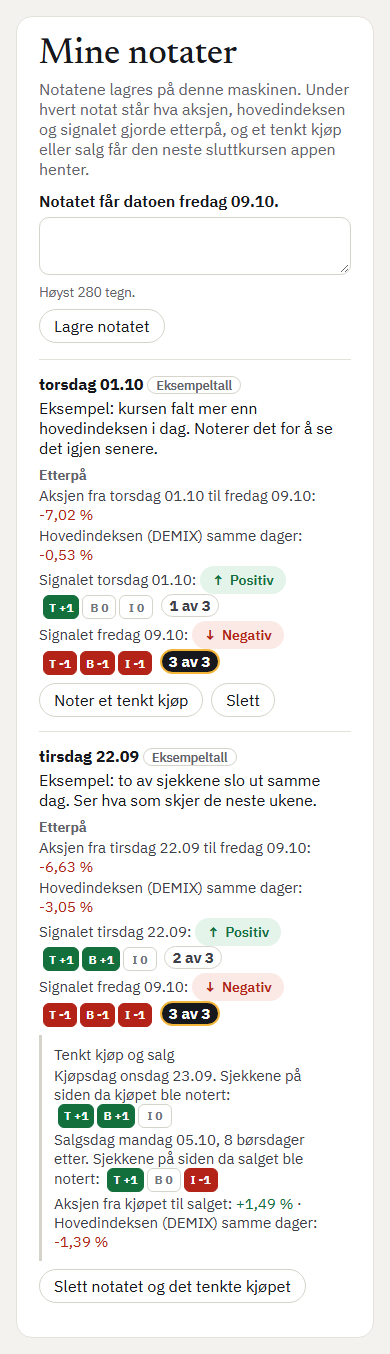
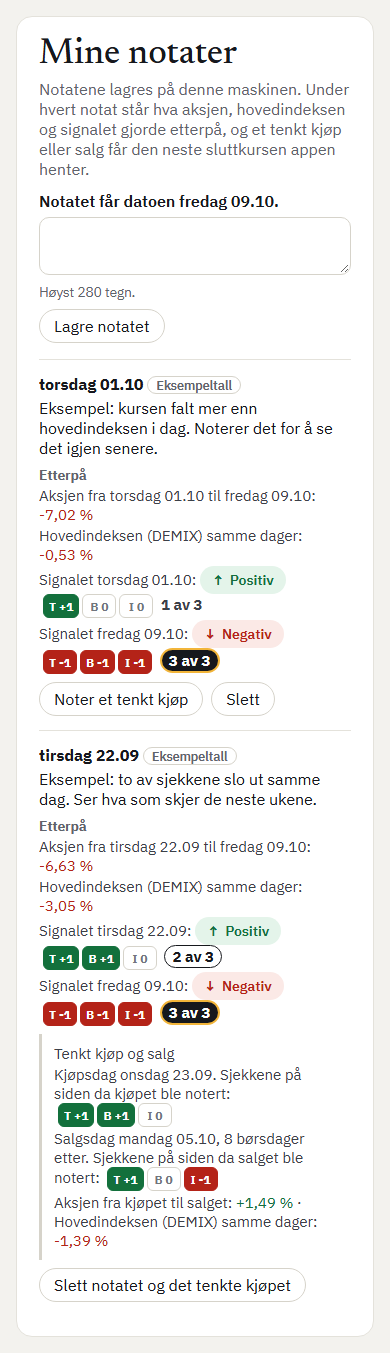
Bildene med notatene og avtrykkene etter tillegg 2 til 8.29

diff --git a/tests/test_docker.py b/tests/test_docker.py
@@ -1355,7 +1355,9 @@ HOEYDE_PAA_BILDET = 1864
 # Story 8.29: _egne.html, eodhd_demo.html og stil.css, med flettingen av main (8.27 og 10.11) 13.11.
 # Avtrykkene er regnet ut paa nytt, og bildene er tatt paa nytt: min-liste-demo.png og notatene-brfe-demo.png
 # (investorknappen står over «Mine notater») er nye, de andre byte for byte de samme.
[1 lines of base64/hex data omitted]
+# Tillegg 2 til 8.29 (styrken for én dag som tabellen): _brikker.html, _notat.html, aksje.html og stil.css.
+# Avtrykkene er regnet ut paa nytt, og de tre bildene med notatene er nye.
[1 lines of base64/hex data omitted]
 SLIK_TAS_BILDET = (
     "Oversikten er endret, så skjermbildet viser noe annet enn demoen. Ta "
     f"{SKJERMBILDET} på nytt etter «Bildet» i spesifikasjonen 3.3b: demobasen i en "
@@ -1818,7 +1820,9 @@ HOEYDE_PAA_AKSJESIDEN = 2258
 # Story 8.29: _egne.html, eodhd_demo.html og stil.css, med flettingen av main (8.27 og 10.11) 13.11.
 # Avtrykkene er regnet ut paa nytt, og bildene er tatt paa nytt: min-liste-demo.png og notatene-brfe-demo.png
 # (investorknappen står over «Mine notater») er nye, de andre byte for byte de samme.
[1 lines of base64/hex data omitted]
+# Tillegg 2 til 8.29 (styrken for én dag som tabellen): _brikker.html, _notat.html, aksje.html og stil.css.
+# Avtrykkene er regnet ut paa nytt, og de tre bildene med notatene er nye.
[1 lines of base64/hex data omitted]
 SLIK_TAS_AKSJESIDEN = (
     "Aksjesiden er endret, så bildet av den viser noe annet enn demoen. Ta "
     f"{AKSJESIDEBILDET} på nytt med fremgangsmåten i spesifikasjonen 3.3b, mot /aksje/BRFE: "
@@ -1904,7 +1908,8 @@ DE_NYE_BILDENE = {
     # Story 8.26: 1573 -> 1636 (knappene i raden øverst, på flere linjer ved 390 px).
     # Story 8.26 (tilleggene 5–20): 1636 -> 1722, med «Oppdatert …» og antallet på brikkene (tillegg 17).
     "docs/appen/folg-en-aksje-390-demo.png": ("/folg?bransje=Kraft", 390, 1722, FILENE_BAK_FOLG),
-    "docs/appen/notatene-brfe-390-demo.png": ("/aksje/BRFE", 390, 1354, FILENE_BAK_AKSJESIDEN),
+    # Tillegg 2 til 8.29: 1354 -> 1353, styrken 1 og 0 av 3 som tekst uten pille i notatene.
+    "docs/appen/notatene-brfe-390-demo.png": ("/aksje/BRFE", 390, 1353, FILENE_BAK_AKSJESIDEN),
     # Story 2.12: «Din egen liste» i Min liste, bare delen (id-en
     # din-egen-liste), klippet ut med 16 px over og under.
     # Story 8.11: 1216, med «Start fra en ferdig liste» nederst.
@@ -2081,21 +2086,23 @@ DE_NYE_BILDENE = {
 # Story 8.29: _egne.html, eodhd_demo.html og stil.css, med flettingen av main (8.27 og 10.11) 13.11.
 # Avtrykkene er regnet ut paa nytt, og bildene er tatt paa nytt: min-liste-demo.png og notatene-brfe-demo.png
 # (investorknappen står over «Mine notater») er nye, de andre byte for byte de samme.
+# Tillegg 2 til 8.29 (styrken for én dag som tabellen): _brikker.html, _notat.html, aksje.html og stil.css.
+# Avtrykkene er regnet ut paa nytt, og de tre bildene med notatene er nye.
 AVTRYKK_BAK_DE_NYE_BILDENE = {
[28 lines of base64/hex data omitted]
 }
 SLIK_TAS_DE_NYE_BILDENE = (
     "Siden bak {bildet} er endret, så bildet viser noe annet enn demoen. Ta det på nytt som "
